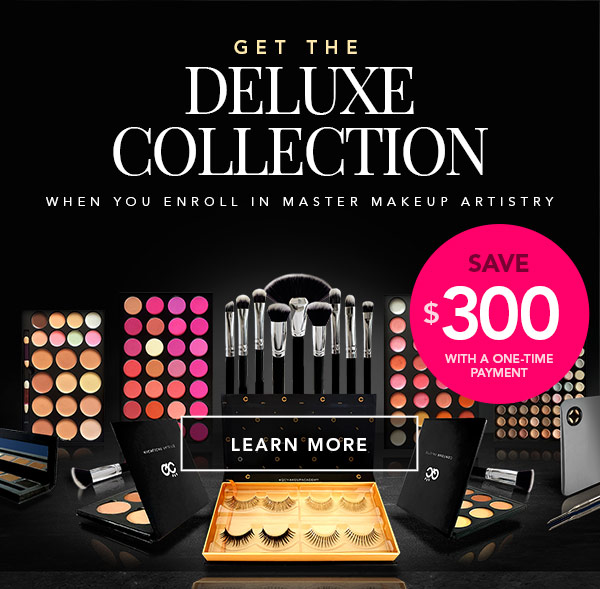
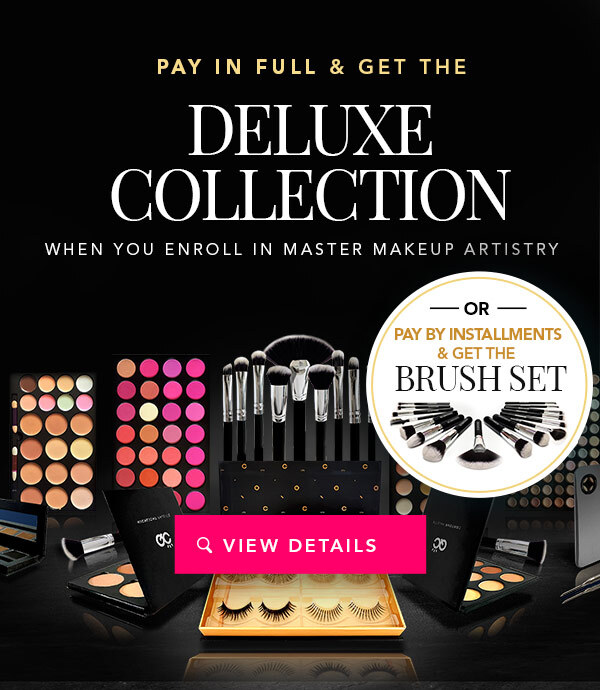
Update promo image

diff --git a/src/pages/makeup/default/fallback/Promo.tsx b/src/pages/makeup/default/fallback/Promo.tsx
@@ -3,12 +3,10 @@ import { Modal, ModalBody, ModalFooter, ModalHeader } from 'reactstrap';
 
 import { usePopup } from '../../../../hooks/usePopup';
 import { useScreenWidthContext } from '../../../../hooks/useScreenWidthContext';
-import { useStateContext } from '../../../../hooks/useStateContext';
 
 const backgroundColor = 'black';
 
 export const MakeupFallbackPromo = (): ReactElement => {
-  const { price } = useStateContext();
   const screenWidth = useScreenWidthContext();
   const [ popup, togglePopup ] = usePopup(false);
 
@@ -19,11 +17,11 @@ export const MakeupFallbackPromo = (): ReactElement => {
   let height: number;
 
   if (desktop) {
-    image = price?.currency.code === 'GBP' ? require('./desktop-uk.jpg') : require('./desktop.jpg');
+    image = require('./desktop.jpg');
     width = 1060;
     height = 489;
   } else {
-    image = price?.currency.code === 'GBP' ? require('./mobile-uk.jpg') : require('./mobile.jpg');
+    image = require('./mobile.jpg');
     width = 600;
     height = 589;
   }
@@ -36,7 +34,7 @@ export const MakeupFallbackPromo = (): ReactElement => {
         </button>
       </div>
       <Modal isOpen={popup} toggle={togglePopup}>
-        <ModalHeader toggle={togglePopup}>Deluxe Collection</ModalHeader>
+        <ModalHeader toggle={togglePopup}>DELUXE Collection</ModalHeader>
         <ModalBody>
           <p>Get the entire <strong>DELUXE Kit with 17-piece brush set</strong> when you enroll in <strong>Master Makeup Artistry</strong> and pay in full. Master Makeup Artist students who choose the installment plan will receive the <strong>17-piece brush set</strong>.</p>
           <p>Graduate as a Master International Makeup Professional™ (MIMP™) in just a few short months and build your beauty empire!</p>

diff --git a/src/pages/makeup/pro-plus-luminous-kit/ProPlusLuminousPromo.tsx b/src/pages/makeup/pro-plus-luminous-kit/ProPlusLuminousPromo.tsx
@@ -29,7 +29,7 @@ export const ProPlusLuminousPromo = memo(() => {
         <ModalHeader toggle={togglePopup}>Limited-Time Offer</ModalHeader>
         <ModalBody>
           <p>When you enroll in <strong>Master Makeup Artistry</strong>, you&apos;ll get QC&apos;s <strong>Pro Makeup Workshop</strong> for free!</p>
-          <p>That&apos;s not all: if you choose the pay-in-full payment plan we&apos;ll also send you the entire <strong>DELUXE Kit with 17-piece brush set</strong>. Part payers will receive a 17-piece brush set.</p>
+          <p>That&apos;s not all: if you choose the pay-in-full payment plan we&apos;ll also send you the entire <strong>DELUXE Kit with 17-piece brush set</strong>. Part payers will receive the <strong>17-piece brush set</strong>.</p>
           <p>Graduate as a Master International Makeup Professional™ (MIMP™) in just a few short months and build your beauty empire!</p>
           <div style={{ display: 'flex', justifyContent: 'center' }}><img src={require('./enrollment-pop-up.jpg')} className="img-fluid" /></div>
         </ModalBody>
